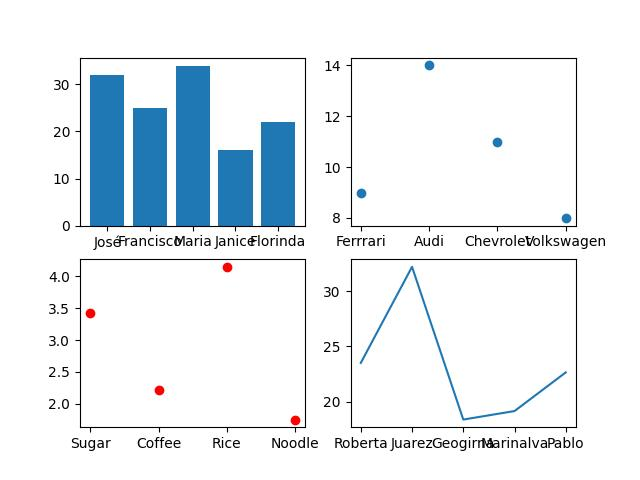
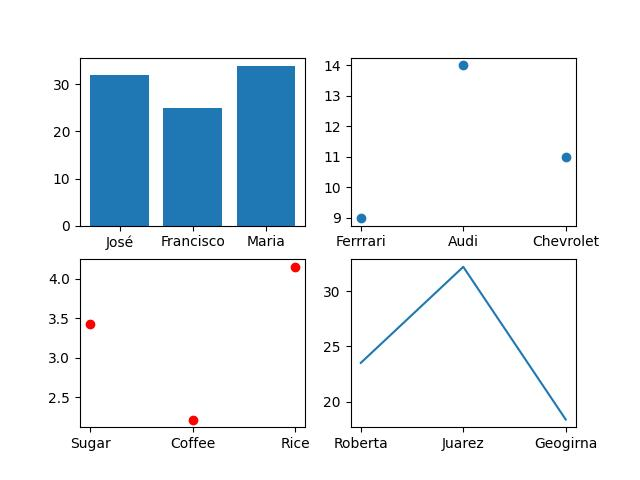
modificando informações

diff --git a/figure with graphics/figure.py b/figure with graphics/figure.py
@@ -1,20 +1,20 @@
 import matplotlib.pyplot as plt
 
 #informações para o gráfico um da figura
-name = ['José', 'Francisco', 'Maria', 'Janice', 'Florinda']
-age = [32, 25, 34, 16, 22]
+name = ['José', 'Francisco', 'Maria']
+age = [32, 25, 34]
 
 #informações pro gráfico dois da figura
-brand = ['Ferrrari', 'Audi', 'Chevrolet', 'Volkswagen']
-sales = [9, 14, 11, 8]
+brand = ['Ferrrari', 'Audi', 'Chevrolet']
+sales = [9, 14, 11]
 
 #informações pro gráfico três da figura
-product = ['Sugar', 'Coffee', 'Rice', 'Noodle']
-cost = [3.43, 2.22, 4.15, 1.75]
+product = ['Sugar', 'Coffee', 'Rice']
+cost = [3.43, 2.22, 4.15]
 
 #informações para o gráfico quatro da figura
-people = ['Roberta', 'Juarez', 'Geogirna', 'Marinalva', 'Pablo']
-bmi = [23.5, 32.2, 18.37, 19.14, 22.64]
+people = ['Roberta', 'Juarez', 'Geogirna']
+bmi = [23.5, 32.2, 18.37]
 
 plt.figure()
 
